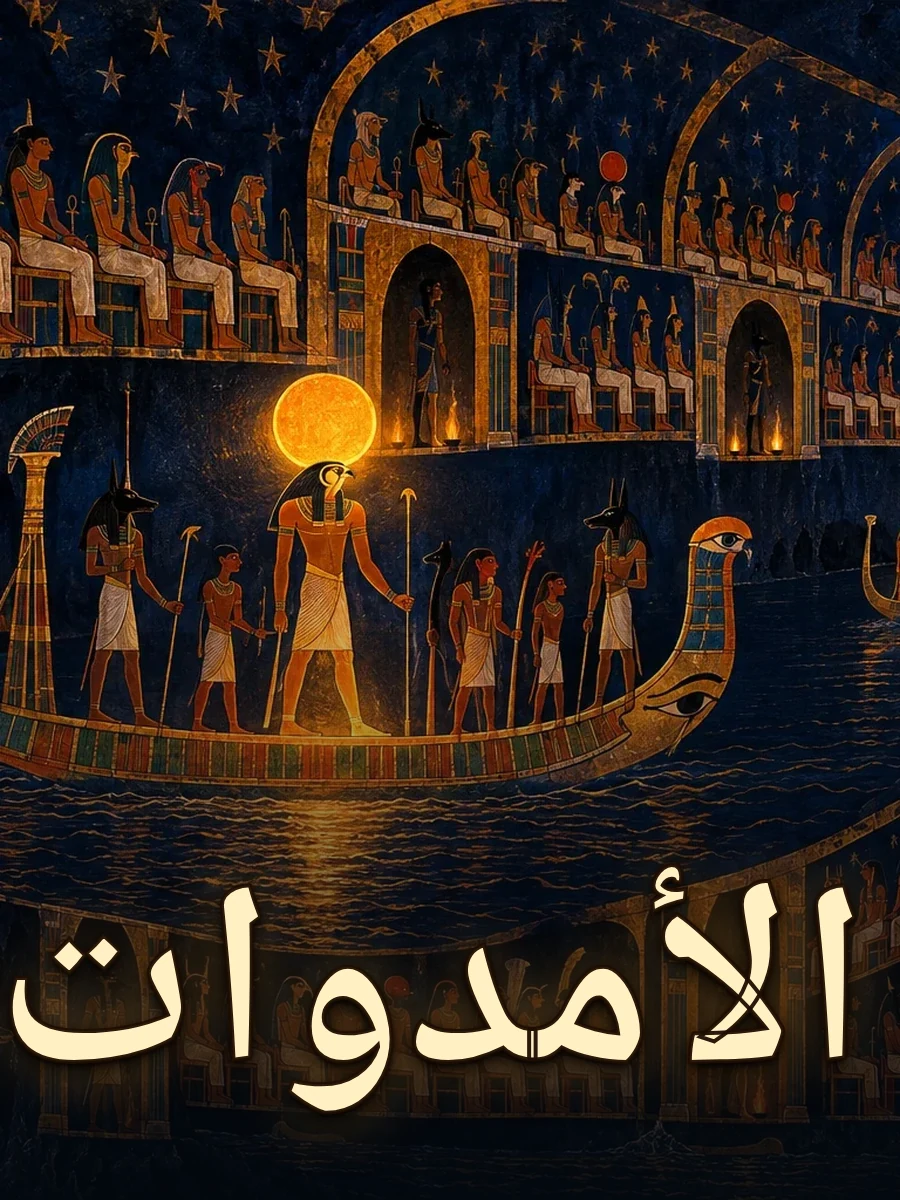
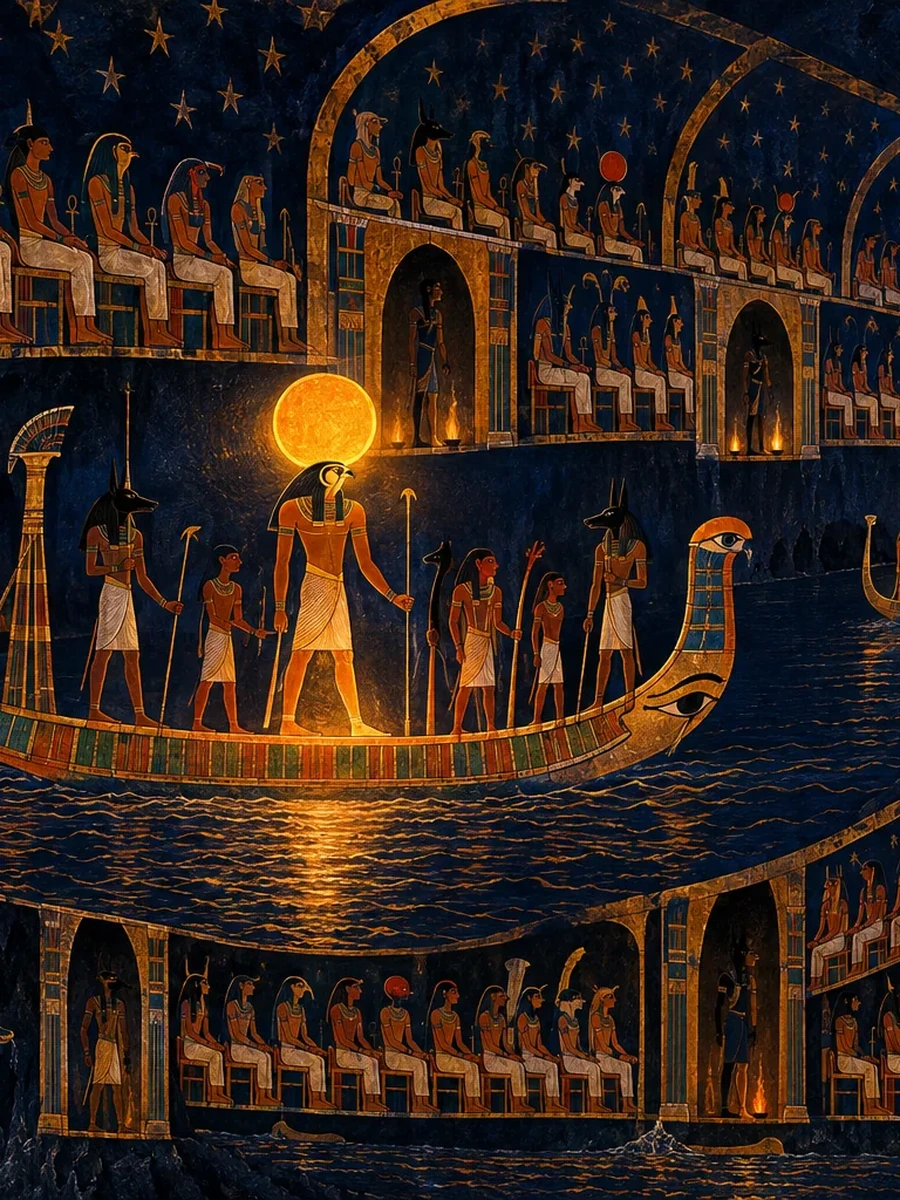
beliefs: bright gold hero titles for amduat and Set (Narmer treatment), clean covers, set cover img attrs

Changed region(s): [[0.0, 0.4625, 1.0, 1.0], [0.9644, 0.5242, 0.9956, 0.5858], [0.4356, 0.4933, 0.4667, 0.5242]]

diff --git a/beliefs/amduat/index.html b/beliefs/amduat/index.html
@@ -344,7 +344,14 @@ html[dir=ltr] #panav.open,#pash[dir=ltr] #panav.open{border-right:0!important;bo
 .acc>summary .n,.acc>summary .t{position:static!important;width:auto!important;height:auto!important;overflow:visible!important;clip:auto!important;white-space:normal!important}
 .acc>summary .n{display:inline-block;margin:12px 16px 0;padding:2px 12px;border-radius:999px;background:linear-gradient(135deg,#2a1d08,#4a3210);border:1px solid rgba(216,181,107,.55);color:#f0d28a;font-size:13.5px;font-weight:700;line-height:1.7}
 .acc>summary .t{display:block;margin:8px 16px 14px;color:#f0d28a;font-weight:700;font-size:clamp(17px,4.4vw,22px);line-height:1.5}
-</style><style>.acc>summary .n{background:linear-gradient(135deg,#2a1d08,#4a3210)!important;color:#f0d28a!important;border:1px solid rgba(216,181,107,.55)!important}</style><style id="herodesk">@media(min-width:768px){header.hero.tall{display:block!important}header.hero.tall .hero-img{display:block!important;margin:0 auto 28px!important;max-width:460px!important;width:100%!important}header.hero.tall .hero-img img{width:100%!important;height:auto!important;border-radius:18px}header.hero.tall .hero-txt{margin-top:0!important}}</style></head><div class="pa-topline"></div><div id="pash"><div class="pa-nav"><a aria-label="بر عنخ الرئيسية" class="pa-brand" href="/"><span class="pa-mark"><span>𓂀</span></span><span class="pa-name">PER ANKH<small>بيت الحياة · HOUSE OF LIFE</small></span></a><nav aria-label="التنقل الرئيسي في الموقع" id="panav"><a href="/#home" data-ar="الرئيسية" data-en="Home">الرئيسية</a><a href="/#discover" data-ar="الأقسام الرئيسية" data-en="Main sections">الأقسام الرئيسية</a><a href="/#kings-details" data-ar="الملوك" data-en="Kings">الملوك</a><a href="/#religion-details" data-ar="الديانة" data-en="Religion">الديانة</a><a href="/#timeline-details" data-ar="العصور والأسرات" data-en="Eras &amp; dynasties">العصور والأسرات</a><a href="/#sites-details" data-ar="المواقع الأثرية" data-en="Archaeological sites">المواقع الأثرية</a><a href="/#library-details" data-ar="المكتبة" data-en="Library">المكتبة</a><a href="/#learning-details" data-ar="التعلم والاختبار" data-en="Learning &amp; quiz">التعلم والاختبار</a><a href="/#about" data-ar="المؤسس" data-en="Founder">المؤسس</a><a class="nav-extra" href="/#architecture-details" data-ar="العمارة والفنون" data-en="Architecture &amp; art">العمارة والفنون</a><a class="nav-extra" href="/#daily-life-details" data-ar="الحياة اليومية" data-en="Daily life">الحياة اليومية</a><a class="nav-extra" href="/#virtual-museum" data-ar="المتحف الافتراضي" data-en="Virtual museum">المتحف الافتراضي</a><a class="nav-extra" href="/#digital-lab" data-ar="معمل الآثار الرقمي" data-en="Digital archaeology lab">معمل الآثار الرقمي</a><a class="nav-extra" href="/#academy-details" data-ar="أكاديمية بر عنخ" data-en="Per Ankh academy">أكاديمية بر عنخ</a><a class="nav-extra" href="/#references-details" data-ar="المراجع والمصادر" data-en="References &amp; sources">المراجع والمصادر</a><a class="nav-extra" href="/#library-expanded" data-ar="المكتبة الأثرية" data-en="Archaeological library">المكتبة الأثرية</a><a class="nav-extra" href="/#interactive-lab" data-ar="مختبر الحضارة التفاعلي" data-en="Interactive lab">مختبر الحضارة التفاعلي</a><a class="nav-extra" href="/#atlas-explorer" data-ar="الأطلس الأثري" data-en="Archaeological atlas">الأطلس الأثري</a><a class="nav-extra" href="/#photo-gallery" data-ar="معرض الصور الأثري" data-en="Photo gallery">معرض الصور الأثري</a><a class="nav-extra" href="/#community-hub" data-ar="مجتمع بر عنخ" data-en="Community">مجتمع بر عنخ</a></nav><div class="pa-act"><button class="pa-lang" id="paLang" type="button">EN</button><a class="pa-acc" id="paAcc" href="/?account=1" data-ar="حسابي" data-en="Account" aria-label="فتح حساب المستخدم">حسابي</a><button class="pa-menu" id="paMenu" type="button" aria-controls="panav" aria-expanded="false" aria-haspopup="true" aria-label="فتح قائمة أقسام الموقع">☰</button></div></div></div><main class="wrap"><nav class="pa-crumb" id="paCrumb" aria-label="مسار الصفحة"><a href="/" data-ar="الرئيسية" data-en="Home">الرئيسية</a><i aria-hidden="true">‹</i><a href="/#religion-details" data-ar="الديانة المصرية" data-en="Egyptian religion">الديانة المصرية</a><i aria-hidden="true">‹</i><span aria-current="page">الأمدوات</span></nav><p class="pa-ennote" id="paNote" hidden>This page is in Arabic. An English translation has not been prepared yet.</p><article><header class="hero tall"><i class="deco l"></i><i class="deco r"></i><div class="hero-img"><img src="/assets/beliefs/amduat-cover.webp" alt="الأمدوات" width="900" height="1200" fetchpriority="high"></div><div class="hero-txt"><div class="eyebrow" aria-hidden="true"></div><h1>الأمدوات</h1><p class="sub">كتاب ما في العالم الآخر: رحلة الشمس في اثنتي عشرة ساعة، ومكانه بين الكتب الدينية المصرية.</p></div></header><div class="tools"><button id="all" type="button"><svg viewBox="0 0 24 24" width="24" height="24" fill="none" stroke="currentColor" stroke-width="2.4" stroke-linecap="round" stroke-linejoin="round" aria-hidden="true"><path d="M6 6l6 6 6-6M6 13l6 6 6-6"/></svg><span>فتح الكل</span></button><button id="none" type="button"><svg viewBox="0 0 24 24" width="24" height="24" fill="none" stroke="currentColor" stroke-width="2" stroke-linejoin="round" stroke-linecap="round" aria-hidden="true"><rect x="3" y="4" width="18" height="16" rx="2"/><circle cx="9" cy="9.5" r="1.6" fill="currentColor"/><path d="M3.5 18l5.5-5.5 4 4 3-3 4.5 4.5"/></svg><span>إغلاق الكل</span></button></div><div class="legend" role="note"><b>دليل العلامات في الصفحة</b>
+</style><style>.acc>summary .n{background:linear-gradient(135deg,#2a1d08,#4a3210)!important;color:#f0d28a!important;border:1px solid rgba(216,181,107,.55)!important}</style><style id="herodesk">@media(min-width:768px){header.hero.tall{display:block!important}header.hero.tall .hero-img{display:block!important;margin:0 auto 28px!important;max-width:460px!important;width:100%!important}header.hero.tall .hero-img img{width:100%!important;height:auto!important;border-radius:18px}header.hero.tall .hero-txt{margin-top:0!important}}</style><style id="hero-title">
+.hero h1{position:static!important;width:auto!important;height:auto!important;clip:auto!important;clip-path:none!important;overflow:visible!important;margin:0 0 10px!important;
+font-size:clamp(56px,16vw,112px)!important;line-height:1.2!important;font-weight:800!important;text-align:center!important;
+background:linear-gradient(#f7e4b4,#f3d68e 40%,#e2b457 78%,#d3a24b)!important;-webkit-background-clip:text!important;background-clip:text!important;color:transparent!important;
+filter:drop-shadow(0 3px 7px rgba(0,0,0,.9)) drop-shadow(0 0 24px rgba(255,201,97,.5))!important}
+.hero .hero-txt{margin-top:-46px!important;position:relative!important;z-index:2!important;padding:0 10px 6px!important}
+@media(min-width:768px){.hero .hero-txt{margin-top:-60px!important}}
+</style></head><div class="pa-topline"></div><div id="pash"><div class="pa-nav"><a aria-label="بر عنخ الرئيسية" class="pa-brand" href="/"><span class="pa-mark"><span>𓂀</span></span><span class="pa-name">PER ANKH<small>بيت الحياة · HOUSE OF LIFE</small></span></a><nav aria-label="التنقل الرئيسي في الموقع" id="panav"><a href="/#home" data-ar="الرئيسية" data-en="Home">الرئيسية</a><a href="/#discover" data-ar="الأقسام الرئيسية" data-en="Main sections">الأقسام الرئيسية</a><a href="/#kings-details" data-ar="الملوك" data-en="Kings">الملوك</a><a href="/#religion-details" data-ar="الديانة" data-en="Religion">الديانة</a><a href="/#timeline-details" data-ar="العصور والأسرات" data-en="Eras &amp; dynasties">العصور والأسرات</a><a href="/#sites-details" data-ar="المواقع الأثرية" data-en="Archaeological sites">المواقع الأثرية</a><a href="/#library-details" data-ar="المكتبة" data-en="Library">المكتبة</a><a href="/#learning-details" data-ar="التعلم والاختبار" data-en="Learning &amp; quiz">التعلم والاختبار</a><a href="/#about" data-ar="المؤسس" data-en="Founder">المؤسس</a><a class="nav-extra" href="/#architecture-details" data-ar="العمارة والفنون" data-en="Architecture &amp; art">العمارة والفنون</a><a class="nav-extra" href="/#daily-life-details" data-ar="الحياة اليومية" data-en="Daily life">الحياة اليومية</a><a class="nav-extra" href="/#virtual-museum" data-ar="المتحف الافتراضي" data-en="Virtual museum">المتحف الافتراضي</a><a class="nav-extra" href="/#digital-lab" data-ar="معمل الآثار الرقمي" data-en="Digital archaeology lab">معمل الآثار الرقمي</a><a class="nav-extra" href="/#academy-details" data-ar="أكاديمية بر عنخ" data-en="Per Ankh academy">أكاديمية بر عنخ</a><a class="nav-extra" href="/#references-details" data-ar="المراجع والمصادر" data-en="References &amp; sources">المراجع والمصادر</a><a class="nav-extra" href="/#library-expanded" data-ar="المكتبة الأثرية" data-en="Archaeological library">المكتبة الأثرية</a><a class="nav-extra" href="/#interactive-lab" data-ar="مختبر الحضارة التفاعلي" data-en="Interactive lab">مختبر الحضارة التفاعلي</a><a class="nav-extra" href="/#atlas-explorer" data-ar="الأطلس الأثري" data-en="Archaeological atlas">الأطلس الأثري</a><a class="nav-extra" href="/#photo-gallery" data-ar="معرض الصور الأثري" data-en="Photo gallery">معرض الصور الأثري</a><a class="nav-extra" href="/#community-hub" data-ar="مجتمع بر عنخ" data-en="Community">مجتمع بر عنخ</a></nav><div class="pa-act"><button class="pa-lang" id="paLang" type="button">EN</button><a class="pa-acc" id="paAcc" href="/?account=1" data-ar="حسابي" data-en="Account" aria-label="فتح حساب المستخدم">حسابي</a><button class="pa-menu" id="paMenu" type="button" aria-controls="panav" aria-expanded="false" aria-haspopup="true" aria-label="فتح قائمة أقسام الموقع">☰</button></div></div></div><main class="wrap"><nav class="pa-crumb" id="paCrumb" aria-label="مسار الصفحة"><a href="/" data-ar="الرئيسية" data-en="Home">الرئيسية</a><i aria-hidden="true">‹</i><a href="/#religion-details" data-ar="الديانة المصرية" data-en="Egyptian religion">الديانة المصرية</a><i aria-hidden="true">‹</i><span aria-current="page">الأمدوات</span></nav><p class="pa-ennote" id="paNote" hidden>This page is in Arabic. An English translation has not been prepared yet.</p><article><header class="hero tall"><i class="deco l"></i><i class="deco r"></i><div class="hero-img"><img src="/assets/beliefs/amduat-cover.webp" alt="الأمدوات" width="900" height="1200" fetchpriority="high"></div><div class="hero-txt"><div class="eyebrow" aria-hidden="true"></div><h1>الأمدوات</h1><p class="sub">كتاب ما في العالم الآخر: رحلة الشمس في اثنتي عشرة ساعة، ومكانه بين الكتب الدينية المصرية.</p></div></header><div class="tools"><button id="all" type="button"><svg viewBox="0 0 24 24" width="24" height="24" fill="none" stroke="currentColor" stroke-width="2.4" stroke-linecap="round" stroke-linejoin="round" aria-hidden="true"><path d="M6 6l6 6 6-6M6 13l6 6 6-6"/></svg><span>فتح الكل</span></button><button id="none" type="button"><svg viewBox="0 0 24 24" width="24" height="24" fill="none" stroke="currentColor" stroke-width="2" stroke-linejoin="round" stroke-linecap="round" aria-hidden="true"><rect x="3" y="4" width="18" height="16" rx="2"/><circle cx="9" cy="9.5" r="1.6" fill="currentColor"/><path d="M3.5 18l5.5-5.5 4 4 3-3 4.5 4.5"/></svg><span>إغلاق الكل</span></button></div><div class="legend" role="note"><b>دليل العلامات في الصفحة</b>
 <div class="row"><span class="bdg v">موثّق</span><span>مذكور في مصدر مرقّم يمكن فتحه من قسم المراجع.</span></div>
 <div class="row"><span class="bdg d">محل خلاف</span><span>الصفحة نفسها تذكر أن الباحثين أو المصادر مختلفون فيه.</span></div>
 <div class="row"><span class="bdg u">لم يُتحقق منه</span><span>الصفحة تذكر أنه من مصدر واحد ولم يُتحقق منه في مصدر ثانٍ.</span></div></div>

diff --git a/beliefs/set/index.html b/beliefs/set/index.html
@@ -344,7 +344,14 @@ html[dir=ltr] #panav.open,#pash[dir=ltr] #panav.open{border-right:0!important;bo
 .acc>summary .n,.acc>summary .t{position:static!important;width:auto!important;height:auto!important;overflow:visible!important;clip:auto!important;white-space:normal!important}
 .acc>summary .n{display:inline-block;margin:12px 16px 0;padding:2px 12px;border-radius:999px;background:linear-gradient(135deg,#2a1d08,#4a3210);border:1px solid rgba(216,181,107,.55);color:#f0d28a;font-size:13.5px;font-weight:700;line-height:1.7}
 .acc>summary .t{display:block;margin:8px 16px 14px;color:#f0d28a;font-weight:700;font-size:clamp(17px,4.4vw,22px);line-height:1.5}
-</style><style>.acc>summary .n{background:linear-gradient(135deg,#2a1d08,#4a3210)!important;color:#f0d28a!important;border:1px solid rgba(216,181,107,.55)!important}</style></head><div class="pa-topline"></div><div id="pash"><div class="pa-nav"><a aria-label="بر عنخ الرئيسية" class="pa-brand" href="/"><span class="pa-mark"><span>𓂀</span></span><span class="pa-name">PER ANKH<small>بيت الحياة · HOUSE OF LIFE</small></span></a><nav aria-label="التنقل الرئيسي في الموقع" id="panav"><a href="/#home" data-ar="الرئيسية" data-en="Home">الرئيسية</a><a href="/#discover" data-ar="الأقسام الرئيسية" data-en="Main sections">الأقسام الرئيسية</a><a href="/#kings-details" data-ar="الملوك" data-en="Kings">الملوك</a><a href="/#religion-details" data-ar="الديانة" data-en="Religion">الديانة</a><a href="/#timeline-details" data-ar="العصور والأسرات" data-en="Eras &amp; dynasties">العصور والأسرات</a><a href="/#sites-details" data-ar="المواقع الأثرية" data-en="Archaeological sites">المواقع الأثرية</a><a href="/#library-details" data-ar="المكتبة" data-en="Library">المكتبة</a><a href="/#learning-details" data-ar="التعلم والاختبار" data-en="Learning &amp; quiz">التعلم والاختبار</a><a href="/#about" data-ar="المؤسس" data-en="Founder">المؤسس</a><a class="nav-extra" href="/#architecture-details" data-ar="العمارة والفنون" data-en="Architecture &amp; art">العمارة والفنون</a><a class="nav-extra" href="/#daily-life-details" data-ar="الحياة اليومية" data-en="Daily life">الحياة اليومية</a><a class="nav-extra" href="/#virtual-museum" data-ar="المتحف الافتراضي" data-en="Virtual museum">المتحف الافتراضي</a><a class="nav-extra" href="/#digital-lab" data-ar="معمل الآثار الرقمي" data-en="Digital archaeology lab">معمل الآثار الرقمي</a><a class="nav-extra" href="/#academy-details" data-ar="أكاديمية بر عنخ" data-en="Per Ankh academy">أكاديمية بر عنخ</a><a class="nav-extra" href="/#references-details" data-ar="المراجع والمصادر" data-en="References &amp; sources">المراجع والمصادر</a><a class="nav-extra" href="/#library-expanded" data-ar="المكتبة الأثرية" data-en="Archaeological library">المكتبة الأثرية</a><a class="nav-extra" href="/#interactive-lab" data-ar="مختبر الحضارة التفاعلي" data-en="Interactive lab">مختبر الحضارة التفاعلي</a><a class="nav-extra" href="/#atlas-explorer" data-ar="الأطلس الأثري" data-en="Archaeological atlas">الأطلس الأثري</a><a class="nav-extra" href="/#photo-gallery" data-ar="معرض الصور الأثري" data-en="Photo gallery">معرض الصور الأثري</a><a class="nav-extra" href="/#community-hub" data-ar="مجتمع بر عنخ" data-en="Community">مجتمع بر عنخ</a></nav><div class="pa-act"><button class="pa-lang" id="paLang" type="button">EN</button><a class="pa-acc" id="paAcc" href="/?account=1" data-ar="حسابي" data-en="Account" aria-label="فتح حساب المستخدم">حسابي</a><button class="pa-menu" id="paMenu" type="button" aria-controls="panav" aria-expanded="false" aria-haspopup="true" aria-label="فتح قائمة أقسام الموقع">☰</button></div></div></div><main class="wrap"><nav class="pa-crumb" id="paCrumb" aria-label="مسار الصفحة"><a href="/" data-ar="الرئيسية" data-en="Home">الرئيسية</a><i aria-hidden="true">‹</i><a href="/#religion-details" data-ar="الديانة المصرية" data-en="Egyptian religion">الديانة المصرية</a><i aria-hidden="true">‹</i><span aria-current="page">ست</span></nav><p class="pa-ennote" id="paNote" hidden>This page is in Arabic. An English translation has not been prepared yet.</p><article><header class="hero tall"><i class="deco l"></i><i class="deco r"></i><div class="hero-img"><img src="banners/cover.webp" alt="إيزيس" width="928" height="1238" fetchpriority="high"></div><div class="hero-txt"><div class="eyebrow" aria-hidden="true"></div><h1>ست</h1><p class="sub">الأخ الذي قتل أوزير: موقعه في التاسوع، ودوره في الأسطورة، وحدود ما نعرفه عنه.</p></div></header><div class="tools"><button id="all" type="button"><svg viewBox="0 0 24 24" width="24" height="24" fill="none" stroke="currentColor" stroke-width="2.4" stroke-linecap="round" stroke-linejoin="round" aria-hidden="true"><path d="M6 6l6 6 6-6M6 13l6 6 6-6"/></svg><span>فتح الكل</span></button><button id="none" type="button"><svg viewBox="0 0 24 24" width="24" height="24" fill="none" stroke="currentColor" stroke-width="2" stroke-linejoin="round" stroke-linecap="round" aria-hidden="true"><rect x="3" y="4" width="18" height="16" rx="2"/><circle cx="9" cy="9.5" r="1.6" fill="currentColor"/><path d="M3.5 18l5.5-5.5 4 4 3-3 4.5 4.5"/></svg><span>إغلاق الكل</span></button></div><div class="legend" role="note"><b>دليل العلامات في الصفحة</b>
+</style><style>.acc>summary .n{background:linear-gradient(135deg,#2a1d08,#4a3210)!important;color:#f0d28a!important;border:1px solid rgba(216,181,107,.55)!important}</style><style id="hero-title">
+.hero h1{position:static!important;width:auto!important;height:auto!important;clip:auto!important;clip-path:none!important;overflow:visible!important;margin:0 0 10px!important;
+font-size:clamp(56px,16vw,112px)!important;line-height:1.2!important;font-weight:800!important;text-align:center!important;
+background:linear-gradient(#f7e4b4,#f3d68e 40%,#e2b457 78%,#d3a24b)!important;-webkit-background-clip:text!important;background-clip:text!important;color:transparent!important;
+filter:drop-shadow(0 3px 7px rgba(0,0,0,.9)) drop-shadow(0 0 24px rgba(255,201,97,.5))!important}
+.hero .hero-txt{margin-top:-46px!important;position:relative!important;z-index:2!important;padding:0 10px 6px!important}
+@media(min-width:768px){.hero .hero-txt{margin-top:-60px!important}}
+</style></head><div class="pa-topline"></div><div id="pash"><div class="pa-nav"><a aria-label="بر عنخ الرئيسية" class="pa-brand" href="/"><span class="pa-mark"><span>𓂀</span></span><span class="pa-name">PER ANKH<small>بيت الحياة · HOUSE OF LIFE</small></span></a><nav aria-label="التنقل الرئيسي في الموقع" id="panav"><a href="/#home" data-ar="الرئيسية" data-en="Home">الرئيسية</a><a href="/#discover" data-ar="الأقسام الرئيسية" data-en="Main sections">الأقسام الرئيسية</a><a href="/#kings-details" data-ar="الملوك" data-en="Kings">الملوك</a><a href="/#religion-details" data-ar="الديانة" data-en="Religion">الديانة</a><a href="/#timeline-details" data-ar="العصور والأسرات" data-en="Eras &amp; dynasties">العصور والأسرات</a><a href="/#sites-details" data-ar="المواقع الأثرية" data-en="Archaeological sites">المواقع الأثرية</a><a href="/#library-details" data-ar="المكتبة" data-en="Library">المكتبة</a><a href="/#learning-details" data-ar="التعلم والاختبار" data-en="Learning &amp; quiz">التعلم والاختبار</a><a href="/#about" data-ar="المؤسس" data-en="Founder">المؤسس</a><a class="nav-extra" href="/#architecture-details" data-ar="العمارة والفنون" data-en="Architecture &amp; art">العمارة والفنون</a><a class="nav-extra" href="/#daily-life-details" data-ar="الحياة اليومية" data-en="Daily life">الحياة اليومية</a><a class="nav-extra" href="/#virtual-museum" data-ar="المتحف الافتراضي" data-en="Virtual museum">المتحف الافتراضي</a><a class="nav-extra" href="/#digital-lab" data-ar="معمل الآثار الرقمي" data-en="Digital archaeology lab">معمل الآثار الرقمي</a><a class="nav-extra" href="/#academy-details" data-ar="أكاديمية بر عنخ" data-en="Per Ankh academy">أكاديمية بر عنخ</a><a class="nav-extra" href="/#references-details" data-ar="المراجع والمصادر" data-en="References &amp; sources">المراجع والمصادر</a><a class="nav-extra" href="/#library-expanded" data-ar="المكتبة الأثرية" data-en="Archaeological library">المكتبة الأثرية</a><a class="nav-extra" href="/#interactive-lab" data-ar="مختبر الحضارة التفاعلي" data-en="Interactive lab">مختبر الحضارة التفاعلي</a><a class="nav-extra" href="/#atlas-explorer" data-ar="الأطلس الأثري" data-en="Archaeological atlas">الأطلس الأثري</a><a class="nav-extra" href="/#photo-gallery" data-ar="معرض الصور الأثري" data-en="Photo gallery">معرض الصور الأثري</a><a class="nav-extra" href="/#community-hub" data-ar="مجتمع بر عنخ" data-en="Community">مجتمع بر عنخ</a></nav><div class="pa-act"><button class="pa-lang" id="paLang" type="button">EN</button><a class="pa-acc" id="paAcc" href="/?account=1" data-ar="حسابي" data-en="Account" aria-label="فتح حساب المستخدم">حسابي</a><button class="pa-menu" id="paMenu" type="button" aria-controls="panav" aria-expanded="false" aria-haspopup="true" aria-label="فتح قائمة أقسام الموقع">☰</button></div></div></div><main class="wrap"><nav class="pa-crumb" id="paCrumb" aria-label="مسار الصفحة"><a href="/" data-ar="الرئيسية" data-en="Home">الرئيسية</a><i aria-hidden="true">‹</i><a href="/#religion-details" data-ar="الديانة المصرية" data-en="Egyptian religion">الديانة المصرية</a><i aria-hidden="true">‹</i><span aria-current="page">ست</span></nav><p class="pa-ennote" id="paNote" hidden>This page is in Arabic. An English translation has not been prepared yet.</p><article><header class="hero tall"><i class="deco l"></i><i class="deco r"></i><div class="hero-img"><img src="banners/cover.webp" alt="ست" width="900" height="1200" fetchpriority="high"></div><div class="hero-txt"><div class="eyebrow" aria-hidden="true"></div><h1>ست</h1><p class="sub">الأخ الذي قتل أوزير: موقعه في التاسوع، ودوره في الأسطورة، وحدود ما نعرفه عنه.</p></div></header><div class="tools"><button id="all" type="button"><svg viewBox="0 0 24 24" width="24" height="24" fill="none" stroke="currentColor" stroke-width="2.4" stroke-linecap="round" stroke-linejoin="round" aria-hidden="true"><path d="M6 6l6 6 6-6M6 13l6 6 6-6"/></svg><span>فتح الكل</span></button><button id="none" type="button"><svg viewBox="0 0 24 24" width="24" height="24" fill="none" stroke="currentColor" stroke-width="2" stroke-linejoin="round" stroke-linecap="round" aria-hidden="true"><rect x="3" y="4" width="18" height="16" rx="2"/><circle cx="9" cy="9.5" r="1.6" fill="currentColor"/><path d="M3.5 18l5.5-5.5 4 4 3-3 4.5 4.5"/></svg><span>إغلاق الكل</span></button></div><div class="legend" role="note"><b>دليل العلامات في الصفحة</b>
 <div class="row"><span class="bdg v">موثّق</span><span>مذكور في مصدر مرقّم يمكن فتحه من قسم المراجع.</span></div>
 <div class="row"><span class="bdg d">محل خلاف</span><span>الصفحة نفسها تذكر أن الباحثين أو المصادر مختلفون فيه.</span></div>
 <div class="row"><span class="bdg u">لم يُتحقق منه</span><span>الصفحة تذكر أنه من مصدر واحد ولم يُتحقق منه في مصدر ثانٍ.</span></div></div>
